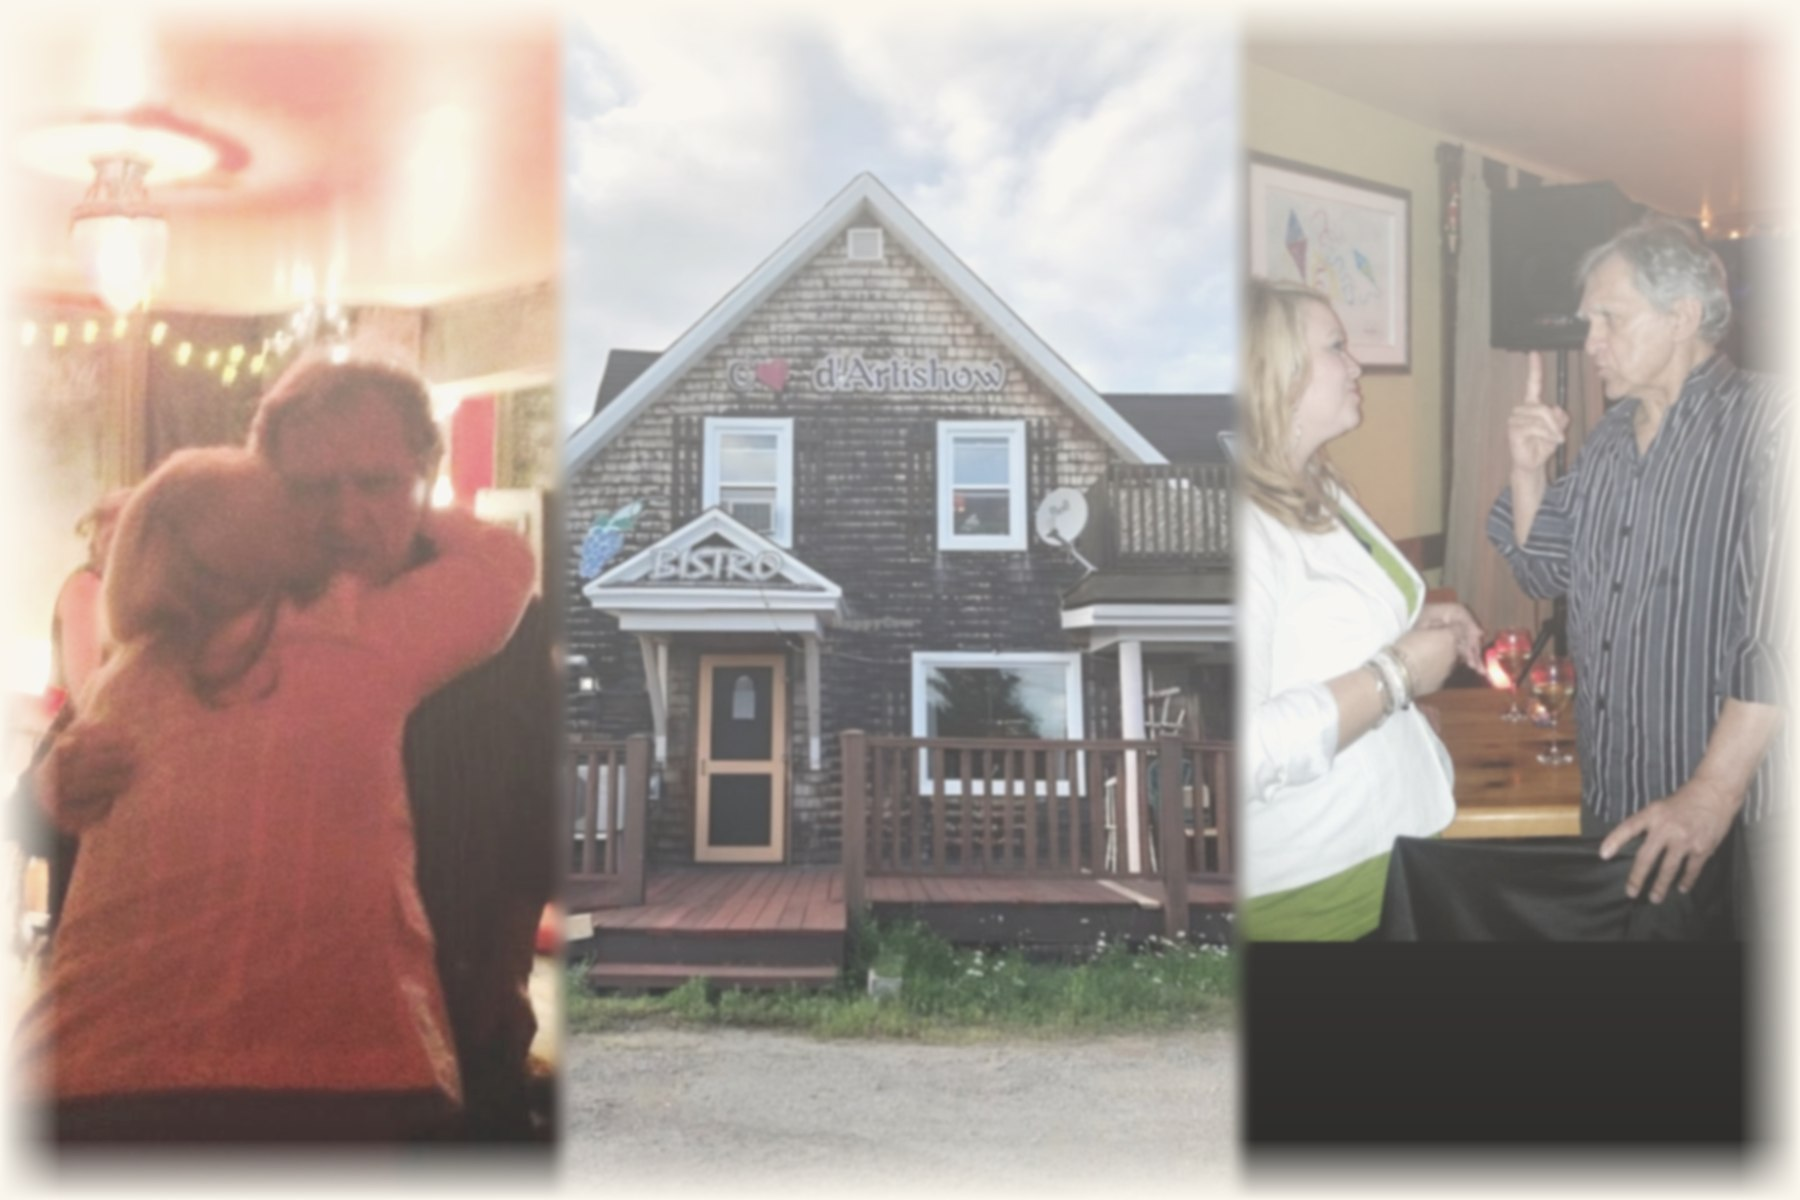
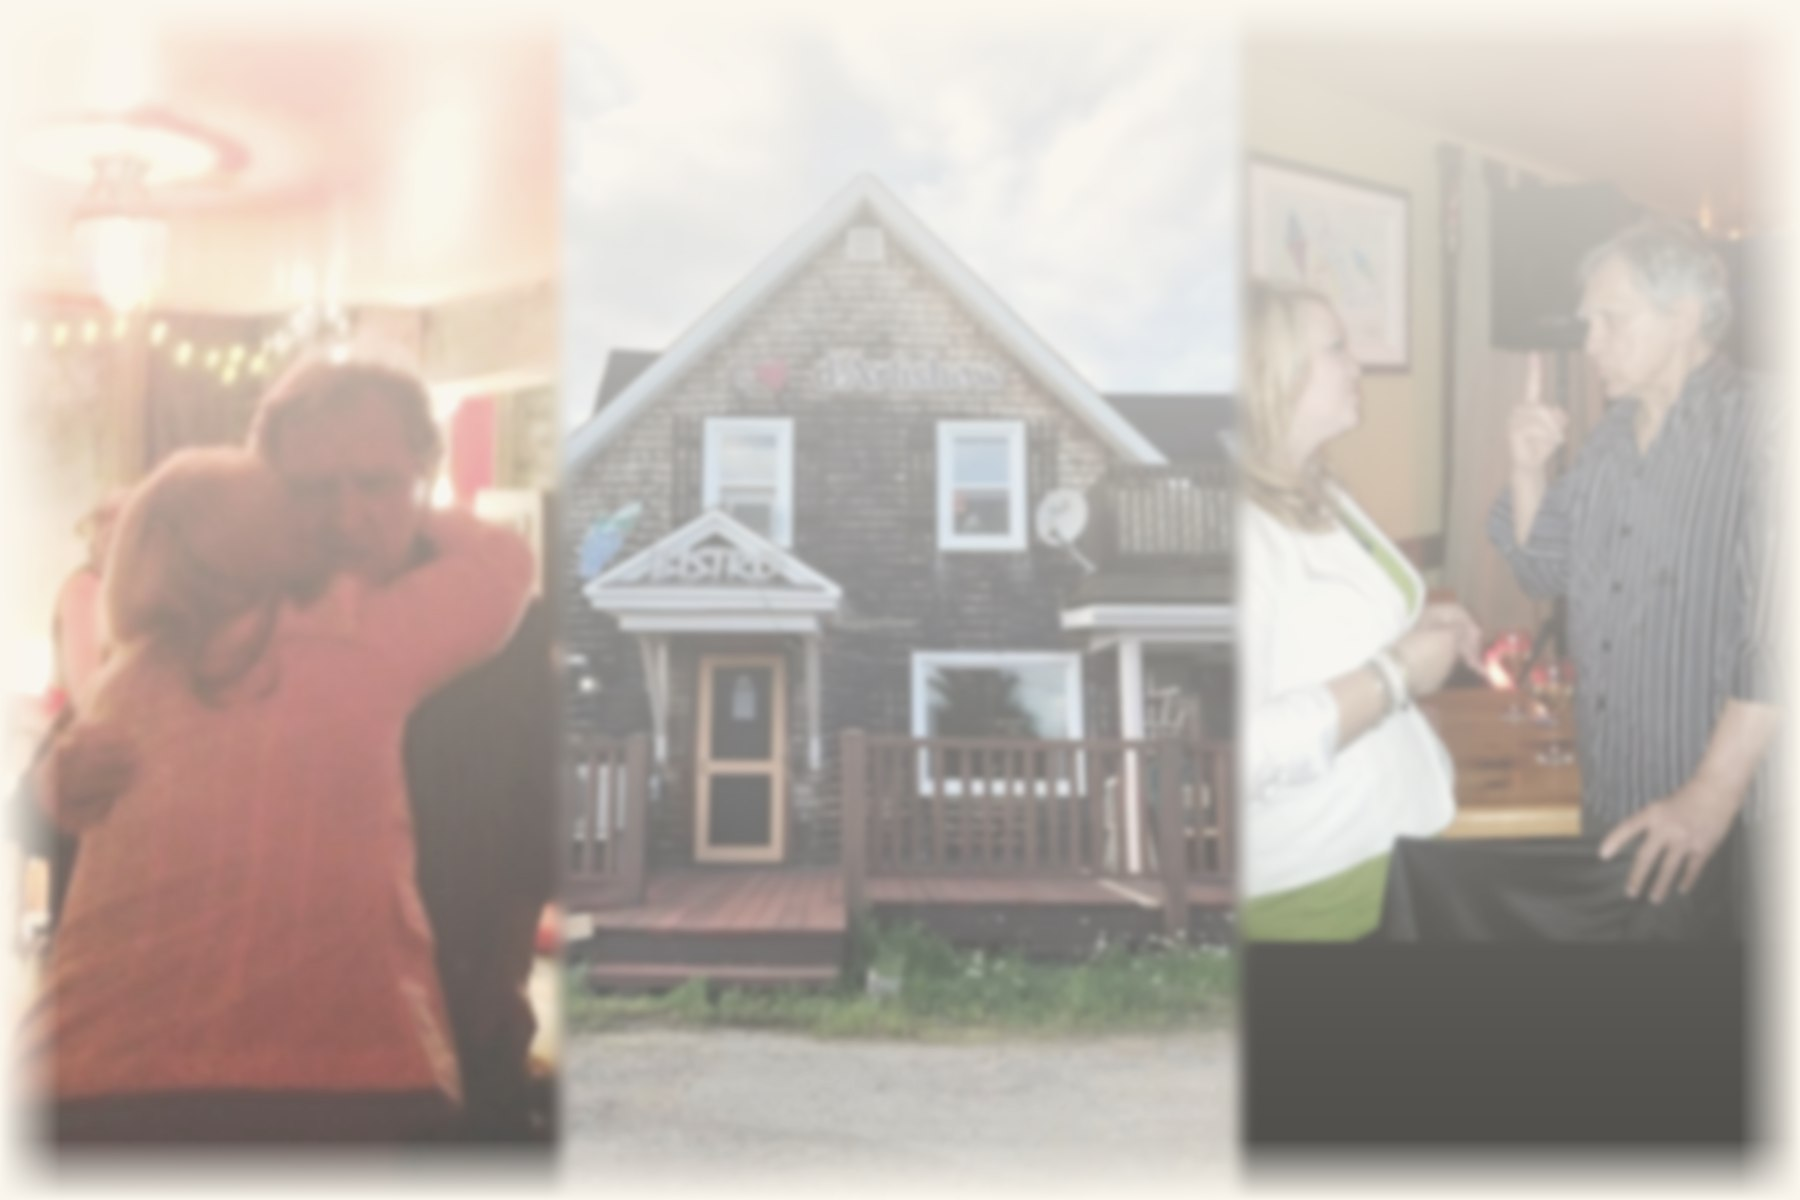
Calixte : fond de rêve voilé (bistro + photos à peine visibles), photos encadrées retirées du bloc

diff --git a/index.html b/index.html
@@ -4543,9 +4543,9 @@
     }
     .chapter-title::after { content: ""; height: 1px; flex: 1; background: linear-gradient(90deg, rgba(201,162,79,.75), rgba(201,162,79,0)); }
     .calixte-story { max-width: 880px; margin: 0 auto; }
-    .calixte-dream { margin-top: 26px; padding: 30px 30px 26px; border-radius: 22px; background: url('assets/calixte-fond-reve.jpg') center / cover no-repeat; box-shadow: var(--shadow); }
+    .calixte-dream { margin-top: 26px; padding: 30px 30px 26px; border-radius: 22px; background: url('assets/calixte-fond-reve.jpg') center 35% / cover no-repeat; box-shadow: var(--shadow); }
     .calixte-dream .chapter-title { margin-top: 0; text-shadow: 0 1px 10px rgba(251,247,238,.95), 0 0 22px rgba(251,247,238,.9); }
-    .calixte-dream > p { margin: 18px 0 0; font-size: 18px; line-height: 1.75; color: var(--ink); background: rgba(251,247,238,.86); border-radius: 14px; padding: 18px 20px; }
+    .calixte-dream > p { margin: 18px 0 0; font-size: 18px; line-height: 1.75; color: var(--ink); background: rgba(251,247,238,.55); border-radius: 14px; padding: 18px 20px; }
     .calixte-dream .calixte-photos figcaption { display: inline-block; background: rgba(251,247,238,.85); border-radius: 999px; padding: 3px 14px; color: #6d5a2e; }
     @media (max-width: 640px) { .calixte-dream { padding: 20px 14px 18px; } .calixte-dream > p { font-size: 17px; padding: 14px 15px; } }
     .calixte-story > p { margin: 20px 0 0; font-size: 18px; line-height: 1.75; color: var(--ink); }
@@ -5702,16 +5702,6 @@
           <div class="calixte-dream">
           <h3 class="chapter-title">Le soir où j’ai chanté devant Calixte</h3>
           <p>C’était en février 2015, quelques semaines après ma victoire à La Voix de Beresford. Je suis allée souper au Bistro Cœur d’Artishow, à Petit-Rocher, sans savoir ce qui m’attendait. À la table voisine : l’ensemble Musica Mundi, venu accompagner le grand Calixte Duguay. Michel Carpentier annonce que j’ai gagné La Voix de Beresford et me demande de chanter. Je me lève, le cœur qui débat, et j’interprète a cappella « Plus jamais la mer » — sa chanson à lui, devant lui. Musica Mundi ajoute ses magnifiques harmonies par-dessus… un moment suspendu, un gros plein d’émotion. Pis la cerise sur le sundae : Calixte vient s’asseoir à côté de moi, pour me féliciter et m’encourager à aller à La Voix (TVA). Quelques mois plus tard, en avril-mai 2015, je suis montée à Québec pour auditionner, accompagnée de Michel Carpentier — et pendant le voyage, Calixte m’a appelée pour me souhaiter bonne chance. C’est sa chanson que j’ai chantée à mon audition.</p>
-          <div class="calixte-photos">
-            <figure>
-              <img src="assets/cindy-calixte-accolade-artishow.jpg" alt="Cindy Roy et Calixte Duguay se font une accolade à l’Artishow de Petit-Rocher" width="720" height="960" loading="lazy" decoding="async" />
-              <figcaption>L’accolade, à l’Artishow</figcaption>
-            </figure>
-            <figure>
-              <img src="assets/cindy-calixte-face-a-face.jpg" alt="Calixte Duguay parle à Cindy Roy, le doigt levé, à l’Artishow de Petit-Rocher" width="940" height="1672" loading="lazy" decoding="async" />
-              <figcaption>Calixte qui me donne ses conseils</figcaption>
-            </figure>
-          </div>
           </div>
           <h3 class="chapter-title">La Voix (TVA)</h3>
           <p>À l’audition, ça allait vite : la plupart des candidats, une quinzaine de secondes, pis « next ». C’était un peu énervant. Moi, j’ai été surprise — on a écouté ma chanson jusqu’au bout. Pour ça, pis pour tout ce que l’expérience m’a donné comme bagage, ça valait la peine. Très belle expérience — une expérience de plus à mon arc.</p>
